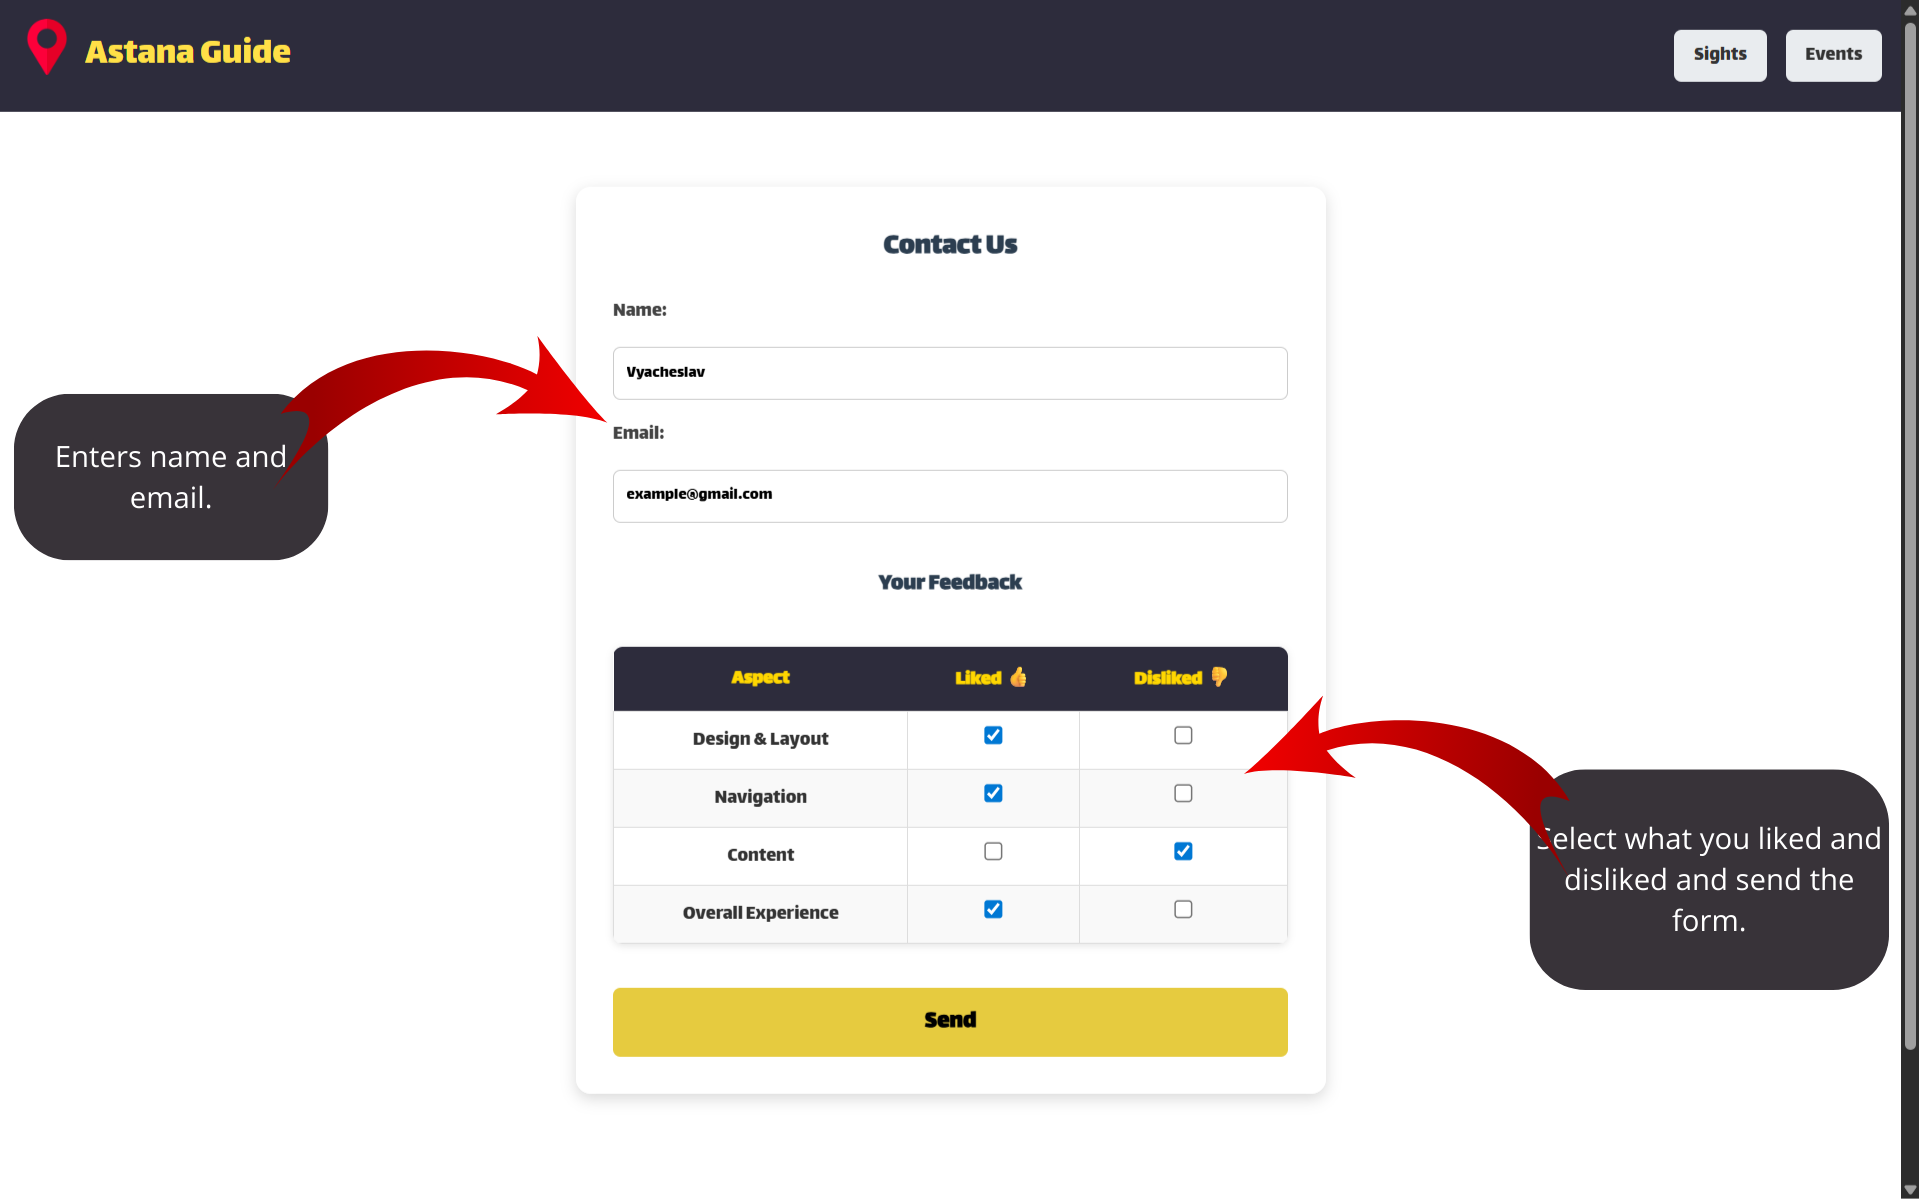
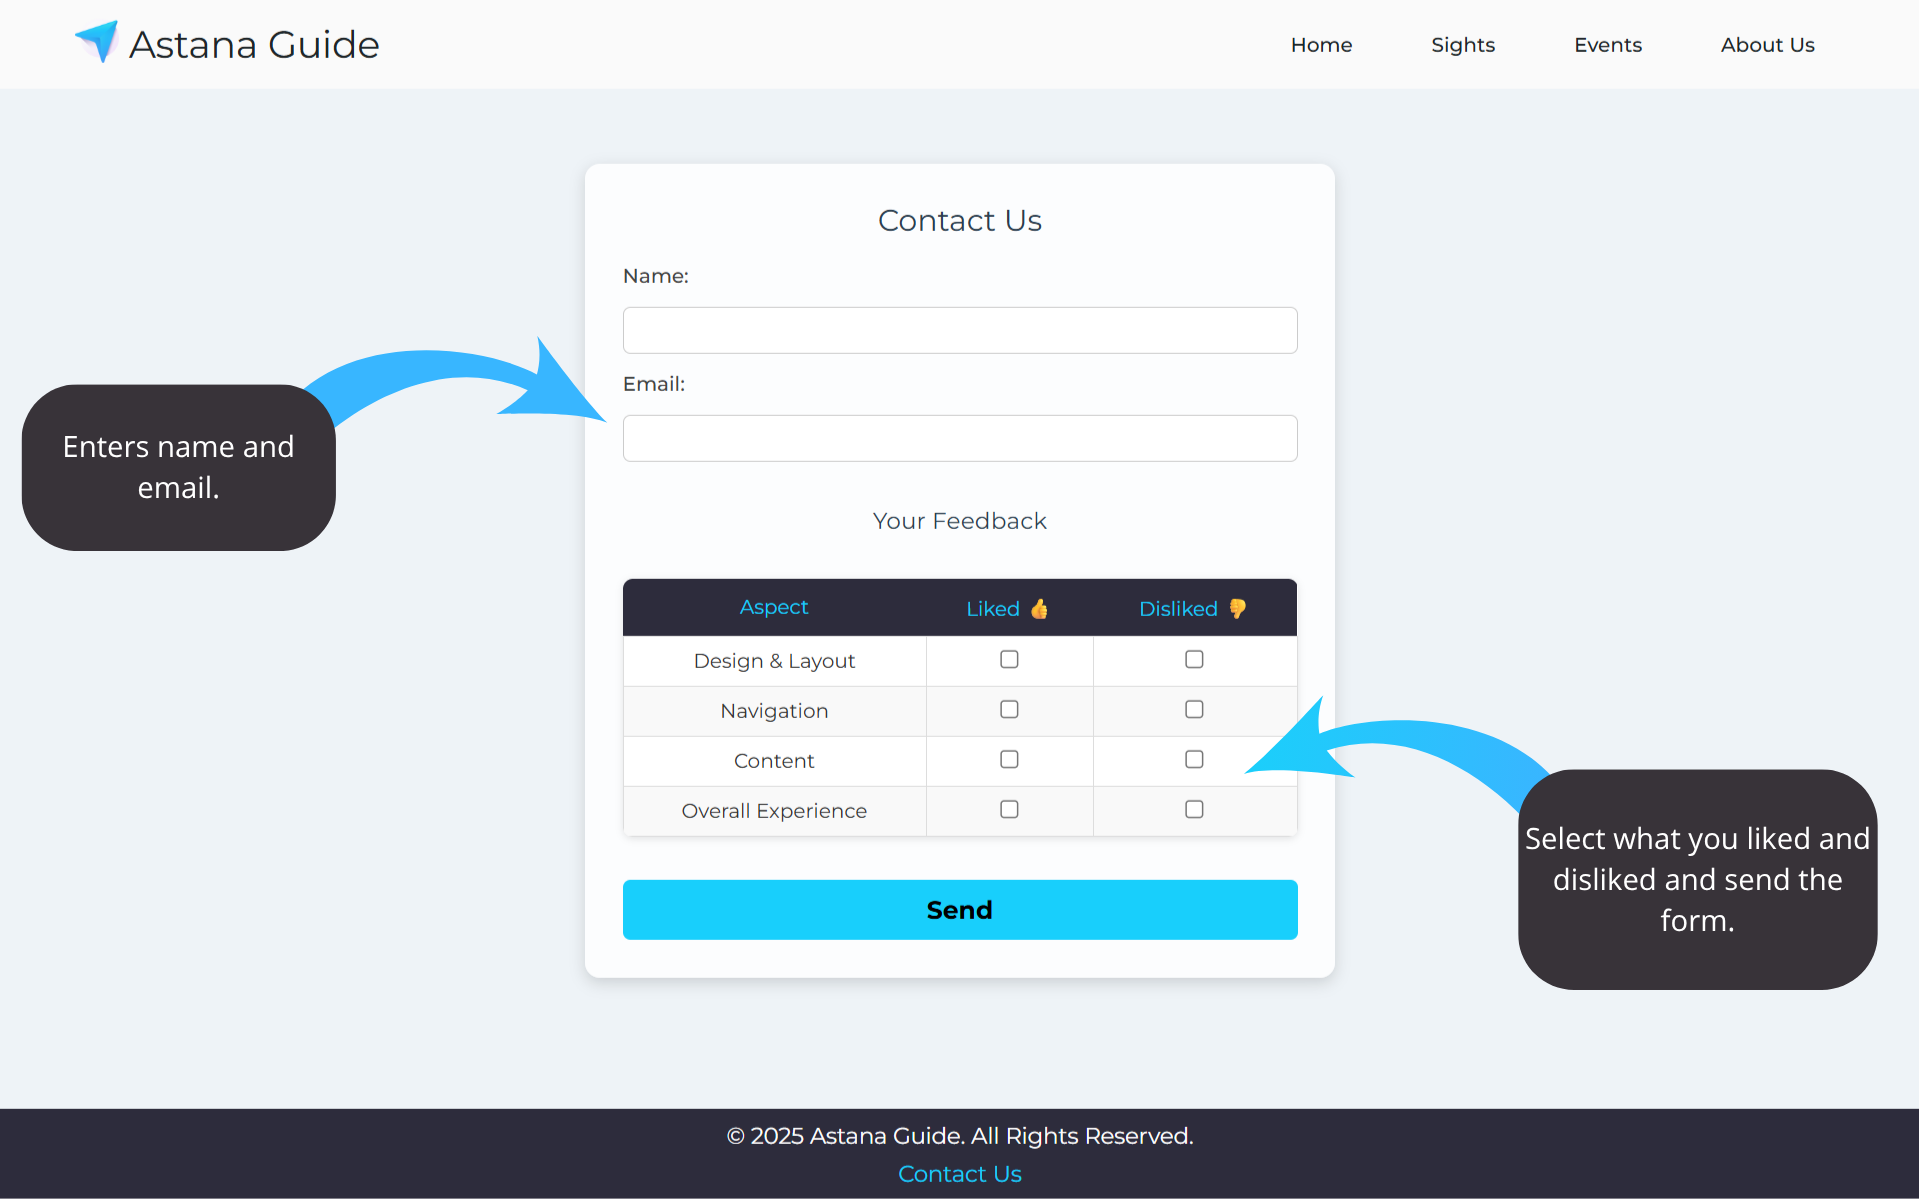
update images and readme

diff --git a/events.html b/events.html
@@ -45,7 +45,7 @@
                 <img src="https://ticketon.kz/media/upload/59829u45664_meyrambek-besbaev-i-abdizhappar-alkozha-v-almaty.jpg"
                     alt="Meirambek Besbayev & Abdizhappar Alkozha">
                 <h3>Meirambek Besbayev & Abdizhappar Alkozha</h3>
-                <span>📅 October 10, 2025 — 19:30</span>
+                <span>📅 November 6, 2025 — 19:30</span>
                 <p>Two iconic Kazakh singers will perform together in a special concert celebrating national music,
                     culture, and unity. Expect emotional ballads and modern hits.
                 </p>
@@ -72,10 +72,10 @@
             </div>
 
             <div id="kaz-belgium" class="sight-content">
-                <img src="https://ticketon.kz/files/media/%D0%9A%D0%B0%D0%B7%D0%B0%D1%85%D1%81%D1%82%D0%B0%D0%BD%20U21%20-%20%D0%91%D0%B5%D0%BB%D1%8C%D0%B3%D0%B8%D1%8F%20U21465456.jpg"
+                <img src="https://ticketon.kz/files/media/match-kazakhstan-belgiya11.jpg"
                     alt="Kazakhstan vs Belgium">
                 <h3>Kazakhstan vs Belgium</h3>
-                <span>📅 November 15, 2025</span>
+                <span>📅 October 13, 2025</span>
                 <p>An electrifying World Cup 2026 qualifier as Kazakhstan hosts one of the strongest European teams.
                     Thousands of fans, world-class football, and unforgettable atmosphere.
                 </p>

diff --git a/index.html b/index.html
@@ -102,7 +102,7 @@
                 <img src="https://encrypted-tbn0.gstatic.com/images?q=tbn:ANd9GcSe1ntaKP4EjANS4rMxf6slnpgDqlwD7n-BJw&s" alt="Sight 4">
                 <p>Expo 2017 Sphere</p>
             </a>
-            <a href="sights.html#palace" class="scroll-item">
+            <a href="sights.html#akorda" class="scroll-item">
                 <img src="https://akorda.kz/assets/media/daa-0884-2_mediumThumb.jpg" alt="Sight 6">
                 <p>Presidential Palace</p>
             </a>

diff --git a/readme.md b/readme.md
@@ -1,4 +1,4 @@
-# <img src="images/logo.png" alt="Astana Guide Logo" width="40" style="vertical-align: middle;"/> Astana Guide (HTML + CSS)
+# <img src="images/icon.png" alt="Astana Guide Logo" width="40" style="vertical-align: middle;"/> Astana Guide (HTML + CSS)
 ### 👥 Authors: *Vyacheslav Yakupov* and *Marlen Zhumagulov*
 
 ---
@@ -16,7 +16,7 @@ It serves as a digital guide for travelers and residents who want to:
 
 ## 👨💻 Contribution of Authors  
 
-- **Vyacheslav Yakupov** — created the **Home page** (`index.html`) and **Contact page** (`contact.html`) along with their styles.  
+- **Vyacheslav Yakupov** — created the **Home page** (`index.html`),**Contact page** (`contact.html`) and **About Us page** (`about.html`) along with their styles.  
 - **Marlen Zhumagulov** — developed the **Sights page** (`sights.html`) and **Events page** (`events.html`) with their corresponding styles.  
 
 ---
@@ -28,6 +28,7 @@ It serves as a digital guide for travelers and residents who want to:
 - `contact.html` — Contact form  
 - `sights.html` — Landmarks & attractions  
 - `events.html` — Local events & activities  
+- `about.html` - Information about website 
 
 ### 🎨 CSS Stylesheets  
 - `index_style.css` — Styling for homepage  
@@ -35,7 +36,8 @@ It serves as a digital guide for travelers and residents who want to:
 - `sights_style.css` — Styling for sights page  
 - `events_style.css` — Styling for events page  
 - `header_style.css` — Shared header styles  
-- `footer_style.css` — Shared footer styles  
+- `footer_style.css` — Shared footer styles 
+- `about_style.css` - Styling for about page 
 
 ---
 
@@ -43,46 +45,64 @@ It serves as a digital guide for travelers and residents who want to:
 
 ### 🏠 index.html — Home Page
 ![Homepage Header](readmeImages/homepageHeader.png)
-![Homepage Footer](readmeImages/homepageFooter.png)
+![Homepage Center](readmeImages/homepageCenter.png)
 
 The **home page** serves as the welcoming entry point to the *Astana Guide* website.  
 It introduces users to the project and provides quick navigation to the main sections.  
 
 **Key elements:**  
-- **Header with logo and navigation** → links to *Sights* and *Events*.  
+- **Header with logo and navigation** → links to *Home*, *Sights*, *Events*, *About Us* 
 - **Hero section** → large background image with a bold title and tagline.  
-- **About section** → short introduction about Astana, its architecture, and cultural life.  
+- **An arrow** that automatically points to the next component
 - **Preview cards** → direct links to the *Sights* and *Events* pages with images and descriptions.  
+- **List of sights and events** - as well as a list of attractions and events you can interact with.
 - **Footer** → copyright + quick link to the *Contact* page.  
-
+![Homepage Footer](readmeImages/homepageFooter.png)
 ---
 
 ### 🏙 sights.html — Sights Page
 ![Sights Page](readmeImages/sightspage.png)
 
-The **Sights page** highlights Astana’s most iconic landmarks and attractions.  
+# 🏙 Sights Page
+
+The **Sights page** showcases Astana’s most popular landmarks and cultural attractions.  
 
 **Key elements:**  
-- **Hero section** → background image with title and short introduction.  
-- **Sight cards** → each attraction is presented as a card with an image, title, and detailed description.  
-  - *Khan Shatyr* → modern entertainment center with a unique architectural design.  
-  - *Baiterek Tower* → the main symbol of Astana with observation deck and symbolic design.  
-- **Navigation & footer** → consistent with the other pages.    
+- 🧭 **Navigation header** → logo and menu for Home, Sights, Events, About Us.  
+- 🗼 **Sight view section** → detailed blocks with image, title, and description for each landmark (*Bayterek Tower, Khan Shatyr, Hazret Sultan Mosque, Akorda Palace, Nur-Astana Mosque, Expo 2017, Independence Square, Central Park*).  
+- 📜 **Scroll gallery** → horizontal thumbnail navigation that highlights the selected sight and updates the view.  
+- 📩 **Footer** → copyright and contact.  
+
+  
 
 ---
 
 ### 🎶 events.html — Events Page
 ![Events Page](readmeImages/eventspage.png)
 
-The **Events page** showcases upcoming cultural and entertainment events in Astana.  
+
+
+# 🎉 Events Page
+
+The **Events page** highlights upcoming concerts, shows, and sports matches in Astana.  
 
 **Key elements:**  
-- **Hero section** → themed background with title and subtitle.  
-- **Event cards** → visually engaging blocks containing images, dates, titles, and detailed event descriptions.  
-  - *Backstreet Boys concert* → major international music event.  
-  - *PGL Astana 2026* → Tier-1 Counter-Strike tournament hosted in the capital.  
-  - *Vienna Strauss Philharmonie Orchestra* → classical music concert bringing European traditions to Astana.  
-- **Navigation & footer** → consistent with the other pages.  
+- 🧭 **Navigation header** → consistent with other pages (Home, Sights, Events, About Us).  
+- 🎭 **Event cards** → each event includes an image, title, date, and short description (*concerts, football matches, stand-up shows*).  
+- 📩 **Footer** → copyright and contact.  
+  
+
+---
+# ℹ About Us Page
+
+![About Page](readmeImages/aboutpage.png)
+
+The **About Us page** introduces the Astana Guide project and its purpose.  
+
+**Key elements:**  
+- 🧭 **Navigation header** → consistent with other pages (Home, Sights, Events, About Us).  
+- 🖼 **About section** → image of Astana with a short text about the city’s culture, architecture, and events.  
+- 📩 **Footer** → copyright and contact.  
 
 ---
 
@@ -102,3 +122,23 @@ The **Contact page** allows users to reach out and provide feedback.
 ## 🚀 Deployment  
 The project is deployed via **GitHub Pages** and can be accessed here:  
 👉 [Astana Guide Live Demo](https://yakupovdev.github.io/AstanaGuide/) 📸 
+
+---
+<br>
+
+
+
+# 🚀Project Update: Astana Guide
+**(Version V2.0 - Assignment 2)**
+
+We’ve given **Astana Guide** a full makeover to make it more modern, user-friendly, and visually appealing.  
+
+✨ **What’s new:**  
+- 🎨 **Revamped design** → updated color palette & new font for a fresh and modern look.  
+- 🖼 **Visual improvements** → more balanced layout with better color compatibility.  
+- 🆕 **New “About Us” page** → introducing the project and its mission.  
+- 🎡 **Expanded content** → added more attractions & events to explore.  
+- 🖌 **Custom styles** → improved CSS for cleaner and consistent design.  
+- 📜 **Smooth scrolling** → horizontal scroll sections for attractions and events.  
+
+💡 The result: a more **engaging, colorful, and intuitive guide** to Astana’s sights and events.  
